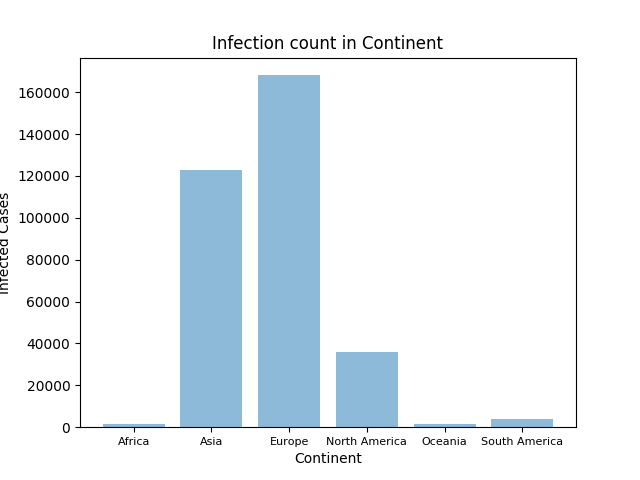
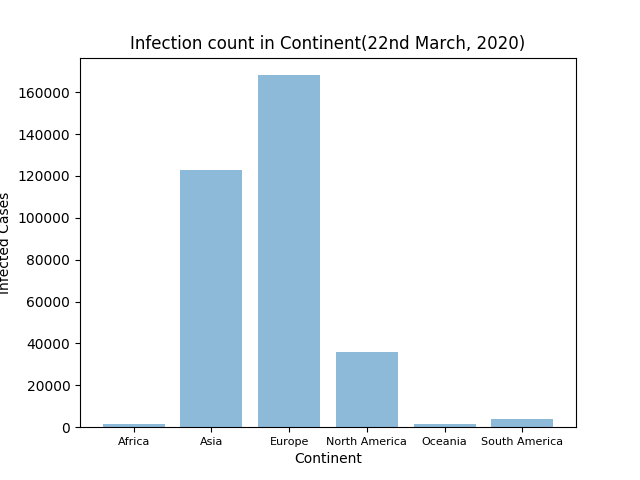
minor fix

Changed region(s): [[0.1875, 0.0625, 0.7188, 0.125], [0.75, 0.0625, 0.8125, 0.125]]

diff --git a/day1/day1.py b/day1/day1.py
@@ -54,7 +54,7 @@ Y_i = italy['Italy']
 plt.bar(y_pos, Y_i, align='center', alpha=0.5)
 plt.xticks(y_pos, X_i, fontsize=8)
 plt.xlabel('Infected Cases')
-plt.xlabel('Country')
+plt.xlabel('Date')
 plt.ylabel('Infected Cases')
 plt.title('Infection count in Italy')
 plt.show()
@@ -77,6 +77,6 @@ plt.xticks(y_pos, X_m, fontsize=8)
 plt.xlabel('Infected Cases Continents')
 plt.xlabel('Continent')
 plt.ylabel('Infected Cases')
-plt.title('Infection count in Continent')
+plt.title('Infection count in Continent(22nd March, 2020)')
 plt.show()
 
